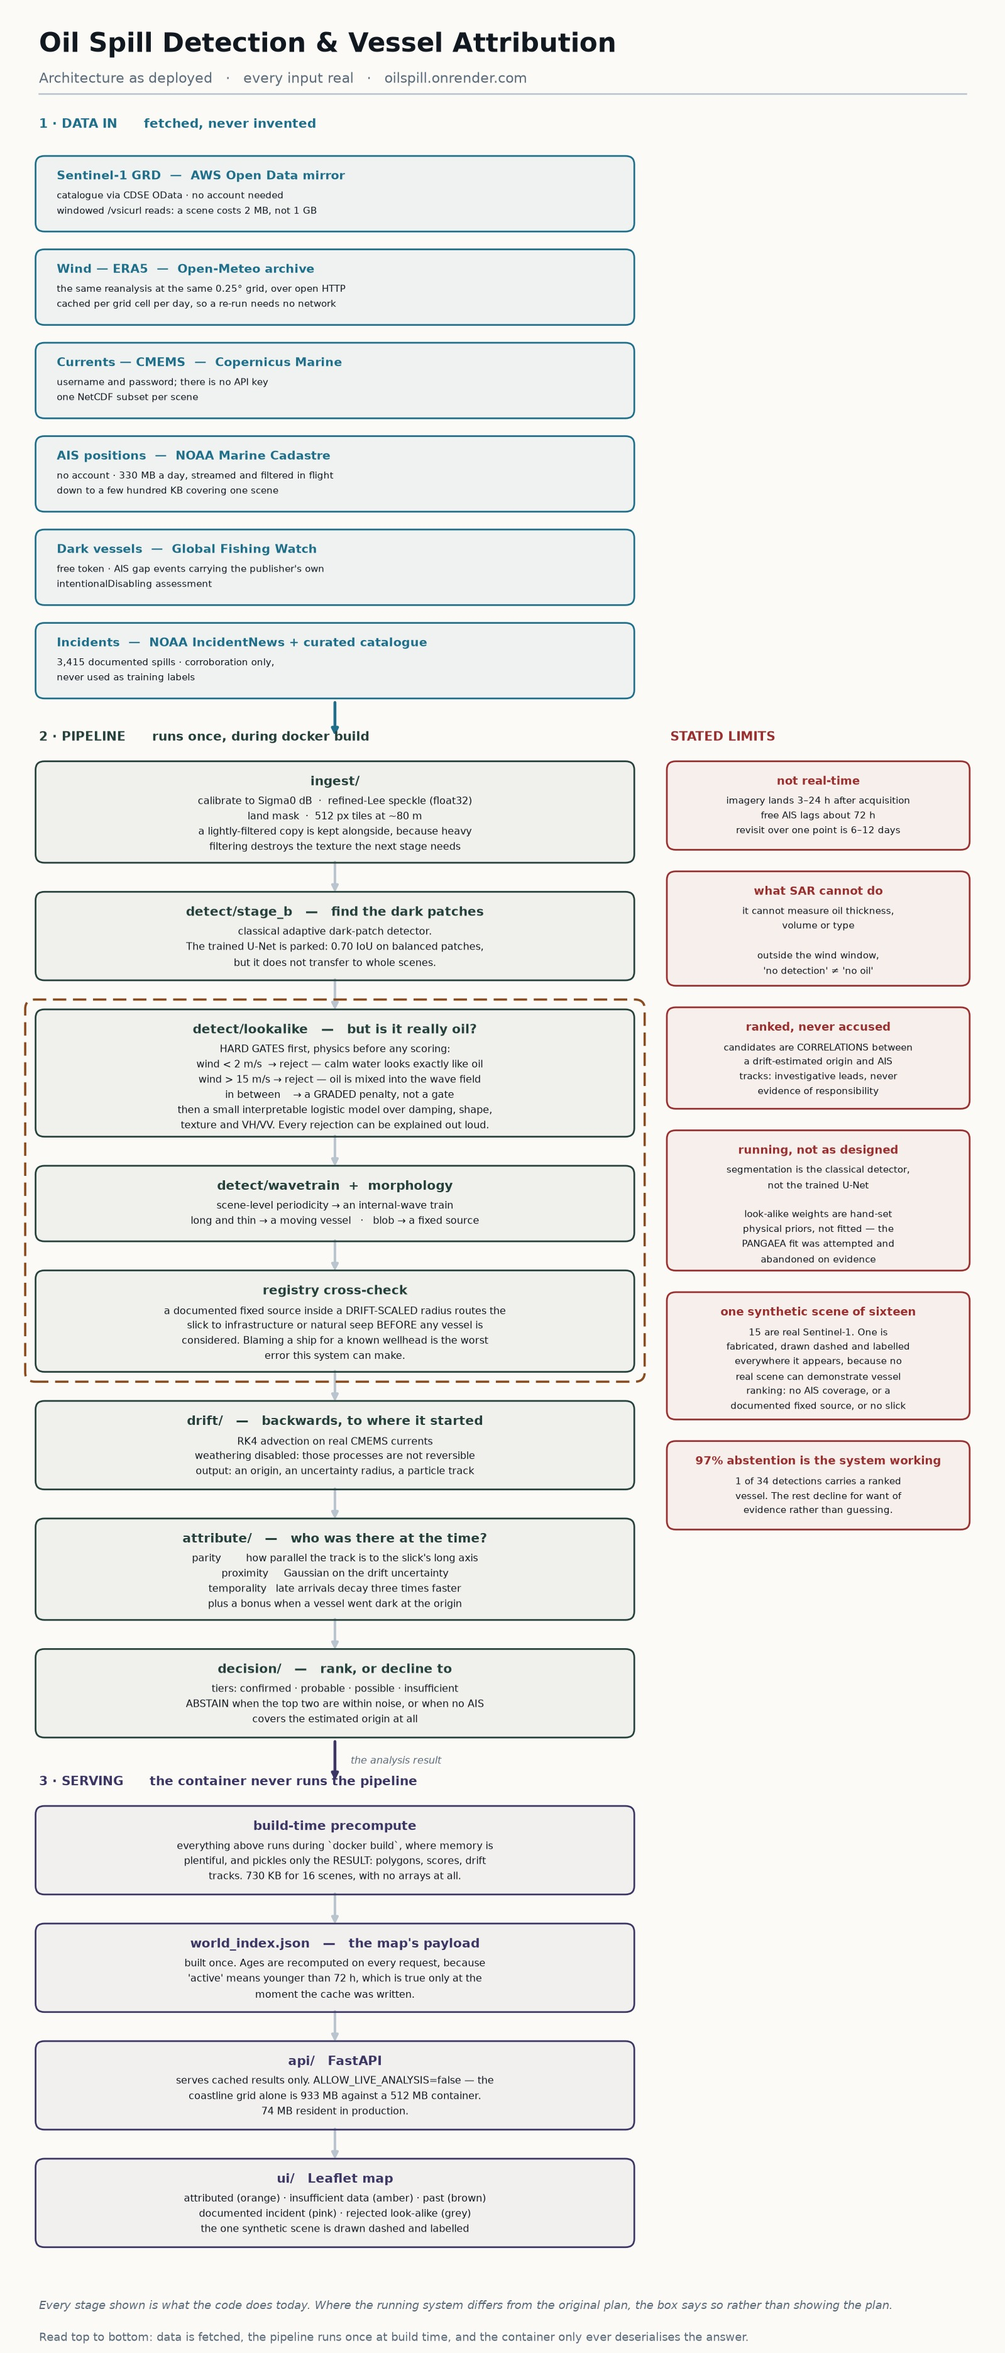
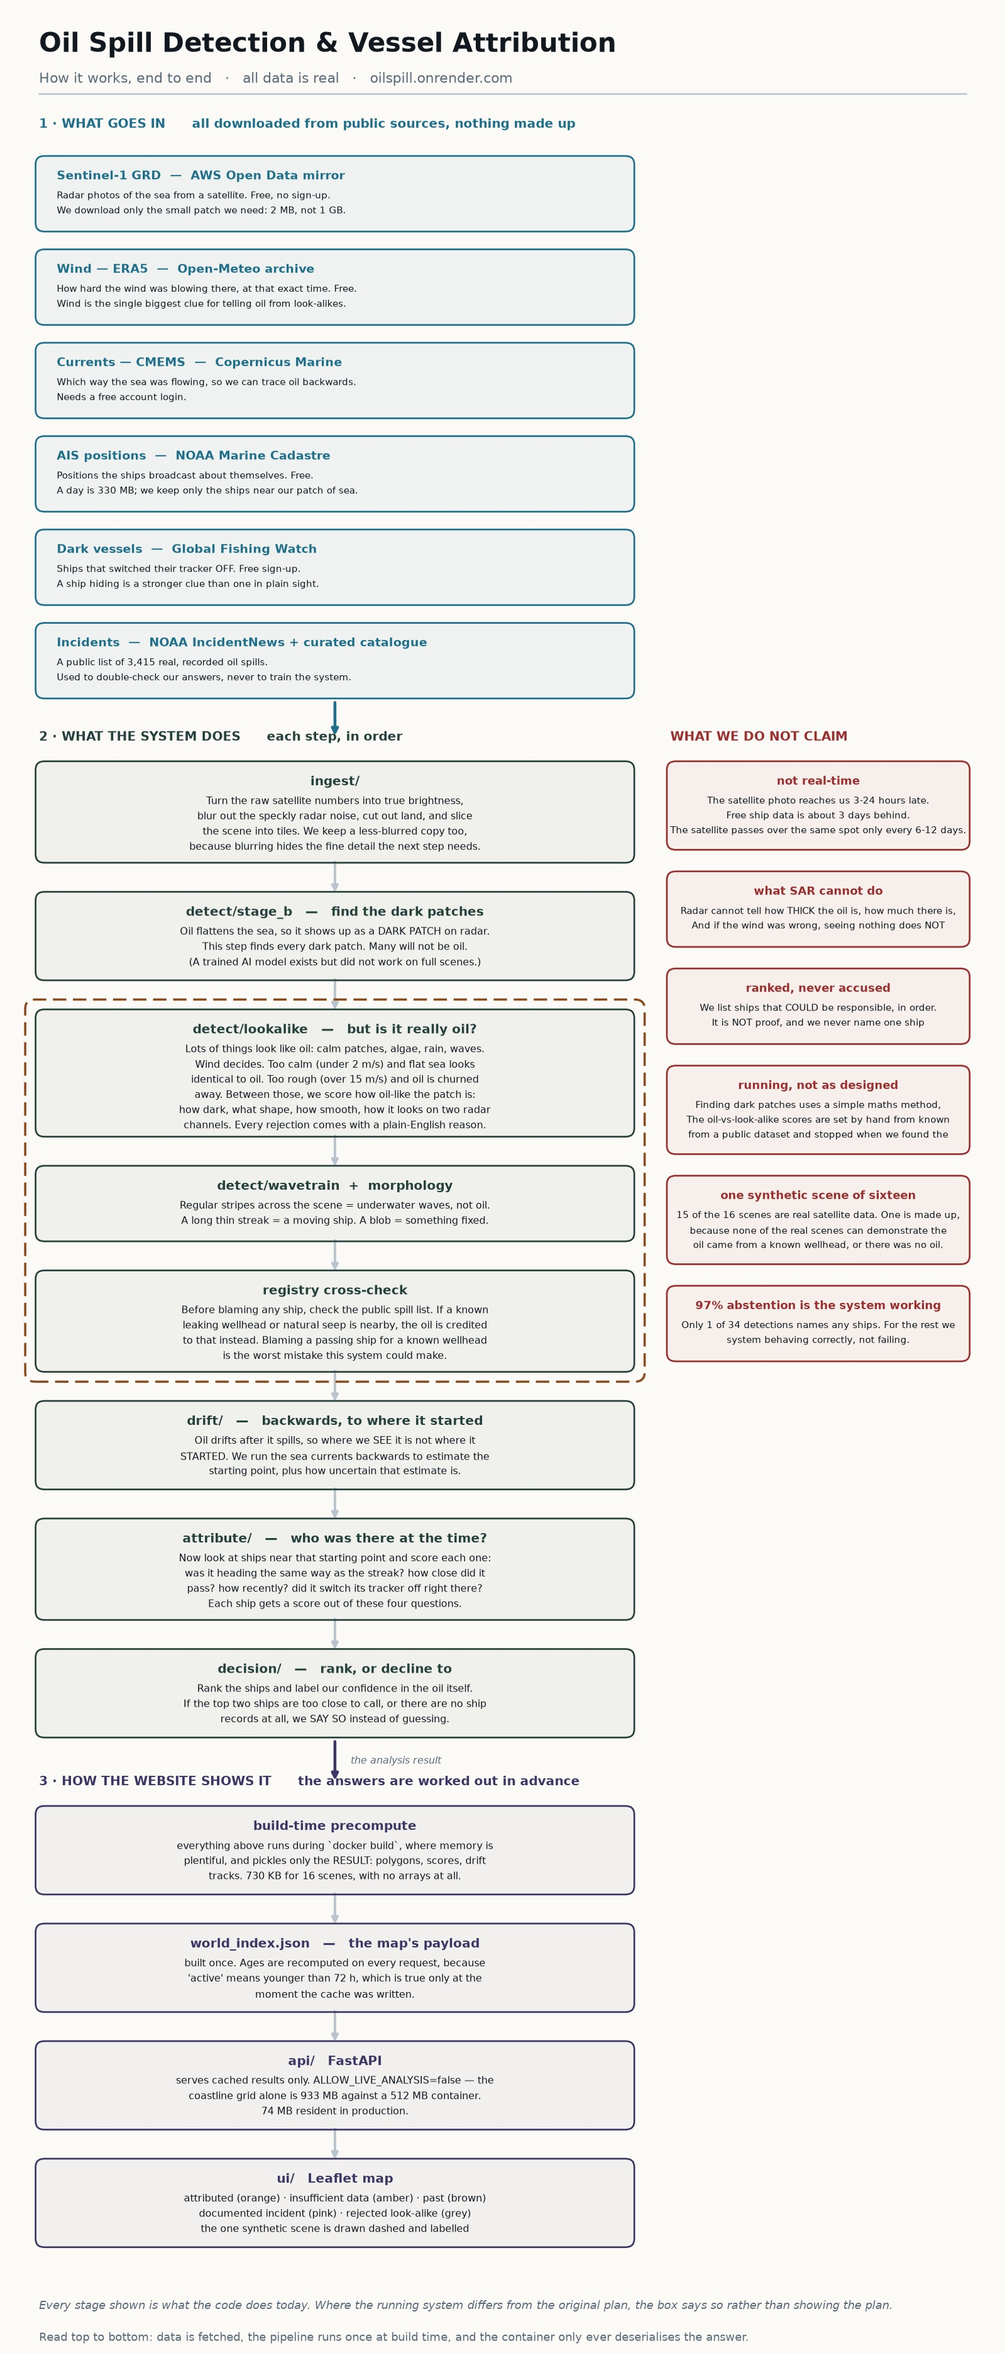
docs: rewrite the diagram and report in plain language
Both were written for someone who already knew the domain. Half the team does
not, and a document only the author can read is not documentation.

The flowchart now says what each step is FOR before saying how it works: oil
flattens the sea so it shows up as a dark patch; many other things also look
dark, so the wind decides; oil drifts, so we run the currents backwards to find
where it started. The limits column is retitled 'what we do not claim' and
spells out that a ranked ship is a lead for an investigator, not proof.

The PDF gains a section 0 that can be read on its own: what the problem is, how
the system works in four sentences, why 97% abstention is the system working
rather than failing, and a short glossary of the jargon that appears later.
Section headings are now questions a non-specialist would ask rather than
module names.

Nothing technical was removed. The detail is still there for whoever needs it;
it just no longer comes first.

diff --git a/scripts/make_diagram.py b/scripts/make_diagram.py
@@ -94,7 +94,7 @@ def draw(out_path: Path) -> None:
     # ---- header ----------------------------------------------------------
     ax.text(3, 169.6, "Oil Spill Detection & Vessel Attribution",
             fontsize=20, color=INK, fontweight="bold", va="top")
-    ax.text(3, 165.3, "Architecture as deployed   ·   every input real   ·   "
+    ax.text(3, 165.3, "How it works, end to end   ·   all data is real   ·   "
                       "oilspill.onrender.com", fontsize=10.4, color=MUTED, va="top")
     ax.plot([3, 97], [163.0, 163.0], color=LINE, linewidth=1.2)
 
@@ -103,71 +103,71 @@ def draw(out_path: Path) -> None:
     SIDE_X, SIDE_W = 67.0, 30.0
 
     # ---- 1. data in ------------------------------------------------------
-    band(160.4, "1 · DATA IN      fetched, never invented", SOURCE)
+    band(160.4, "1 · WHAT GOES IN      all downloaded from public sources, nothing made up", SOURCE)
     src = stack(COL_X, 156.0, COL_W, [
         ("Sentinel-1 GRD  —  AWS Open Data mirror",
-         "catalogue via CDSE OData · no account needed\n"
-         "windowed /vsicurl reads: a scene costs 2 MB, not 1 GB"),
+         "Radar photos of the sea from a satellite. Free, no sign-up.\n"
+         "We download only the small patch we need: 2 MB, not 1 GB."),
         ("Wind — ERA5  —  Open-Meteo archive",
-         "the same reanalysis at the same 0.25° grid, over open HTTP\n"
-         "cached per grid cell per day, so a re-run needs no network"),
+         "How hard the wind was blowing there, at that exact time. Free.\n"
+         "Wind is the single biggest clue for telling oil from look-alikes."),
         ("Currents — CMEMS  —  Copernicus Marine",
-         "username and password; there is no API key\n"
-         "one NetCDF subset per scene"),
+         "Which way the sea was flowing, so we can trace oil backwards.\n"
+         "Needs a free account login."),
         ("AIS positions  —  NOAA Marine Cadastre",
-         "no account · 330 MB a day, streamed and filtered in flight\n"
-         "down to a few hundred KB covering one scene"),
+         "Positions the ships broadcast about themselves. Free.\n"
+         "A day is 330 MB; we keep only the ships near our patch of sea."),
         ("Dark vessels  —  Global Fishing Watch",
-         "free token · AIS gap events carrying the publisher's own\n"
-         "intentionalDisabling assessment"),
+         "Ships that switched their tracker OFF. Free sign-up.\n"
+         "A ship hiding is a stronger clue than one in plain sight."),
         ("Incidents  —  NOAA IncidentNews + curated catalogue",
-         "3,415 documented spills · corroboration only,\n"
-         "never used as training labels"),
+         "A public list of 3,415 real, recorded oil spills.\n"
+         "Used to double-check our answers, never to train the system."),
     ], SOURCE, fs=7.4, tfs=8.9, gap=2.6, align="left")
 
     down(SPINE, src[-1][1] - 0.5, src[-1][1] - 4.6, SOURCE)
 
     # ---- 2. pipeline -----------------------------------------------------
     top_pipe = src[-1][1] - 7.4
-    band(top_pipe + 3.6, "2 · PIPELINE      runs once, during docker build", STAGE)
+    band(top_pipe + 3.6, "2 · WHAT THE SYSTEM DOES      each step, in order", STAGE)
     pipe = stack(COL_X, top_pipe, COL_W, [
         ("ingest/",
-         "calibrate to Sigma0 dB  ·  refined-Lee speckle (float32)\n"
-         "land mask  ·  512 px tiles at ~80 m\n"
-         "a lightly-filtered copy is kept alongside, because heavy\n"
-         "filtering destroys the texture the next stage needs"),
+         "Turn the raw satellite numbers into true brightness,\n"
+         "blur out the speckly radar noise, cut out land, and slice\n"
+         "the scene into tiles. We keep a less-blurred copy too,\n"
+         "because blurring hides the fine detail the next step needs."),
         ("detect/stage_b   —   find the dark patches",
-         "classical adaptive dark-patch detector.\n"
-         "The trained U-Net is parked: 0.70 IoU on balanced patches,\n"
-         "but it does not transfer to whole scenes."),
+         "Oil flattens the sea, so it shows up as a DARK PATCH on radar.\n"
+         "This step finds every dark patch. Many will not be oil.\n"
+         "(A trained AI model exists but did not work on full scenes.)"),
         ("detect/lookalike   —   but is it really oil?",
-         "HARD GATES first, physics before any scoring:\n"
-         "   wind < 2 m/s  → reject — calm water looks exactly like oil\n"
-         "   wind > 15 m/s → reject — oil is mixed into the wave field\n"
-         "   in between    → a GRADED penalty, not a gate\n"
-         "then a small interpretable logistic model over damping, shape,\n"
-         "texture and VH/VV. Every rejection can be explained out loud."),
+         "Lots of things look like oil: calm patches, algae, rain, waves.\n"
+         "Wind decides. Too calm (under 2 m/s) and flat sea looks\n"
+         "identical to oil. Too rough (over 15 m/s) and oil is churned\n"
+         "away. Between those, we score how oil-like the patch is:\n"
+         "how dark, what shape, how smooth, how it looks on two radar\n"
+         "channels. Every rejection comes with a plain-English reason."),
         ("detect/wavetrain  +  morphology",
-         "scene-level periodicity → an internal-wave train\n"
-         "long and thin → a moving vessel   ·   blob → a fixed source"),
+         "Regular stripes across the scene = underwater waves, not oil.\n"
+         "A long thin streak = a moving ship. A blob = something fixed."),
         ("registry cross-check",
-         "a documented fixed source inside a DRIFT-SCALED radius routes the\n"
-         "slick to infrastructure or natural seep BEFORE any vessel is\n"
-         "considered. Blaming a ship for a known wellhead is the worst\n"
-         "error this system can make."),
+         "Before blaming any ship, check the public spill list. If a known\n"
+         "leaking wellhead or natural seep is nearby, the oil is credited\n"
+         "to that instead. Blaming a passing ship for a known wellhead\n"
+         "is the worst mistake this system could make."),
         ("drift/   —   backwards, to where it started",
-         "RK4 advection on real CMEMS currents\n"
-         "weathering disabled: those processes are not reversible\n"
-         "output: an origin, an uncertainty radius, a particle track"),
+         "Oil drifts after it spills, so where we SEE it is not where it\n"
+         "STARTED. We run the sea currents backwards to estimate the\n"
+         "starting point, plus how uncertain that estimate is."),
         ("attribute/   —   who was there at the time?",
-         "parity        how parallel the track is to the slick's long axis\n"
-         "proximity     Gaussian on the drift uncertainty\n"
-         "temporality   late arrivals decay three times faster\n"
-         "plus a bonus when a vessel went dark at the origin"),
+         "Now look at ships near that starting point and score each one:\n"
+         "was it heading the same way as the streak? how close did it\n"
+         "pass? how recently? did it switch its tracker off right there?\n"
+         "Each ship gets a score out of these four questions."),
         ("decision/   —   rank, or decline to",
-         "tiers: confirmed · probable · possible · insufficient\n"
-         "ABSTAIN when the top two are within noise, or when no AIS\n"
-         "covers the estimated origin at all"),
+         "Rank the ships and label our confidence in the oil itself.\n"
+         "If the top two ships are too close to call, or there are no ship\n"
+         "records at all, we SAY SO instead of guessing."),
     ], STAGE, fs=7.5, tfs=9.4, arrows=True)
 
     # The three physics stages are the contribution; mark them as one block.
@@ -181,7 +181,7 @@ def draw(out_path: Path) -> None:
 
     # ---- 3. serving ------------------------------------------------------
     top_serve = pipe[-1][1] - 8.0
-    band(top_serve + 3.6, "3 · SERVING      the container never runs the pipeline",
+    band(top_serve + 3.6, "3 · HOW THE WEBSITE SHOWS IT      the answers are worked out in advance",
          SERVE)
     serve = stack(COL_X, top_serve, COL_W, [
         ("build-time precompute",
@@ -203,29 +203,29 @@ def draw(out_path: Path) -> None:
     ], SERVE, fs=7.5, tfs=9.4, arrows=True)
 
     # ---- limits, running alongside the pipeline --------------------------
-    band(top_pipe + 3.6, "STATED LIMITS", WARN, x=SIDE_X)
+    band(top_pipe + 3.6, "WHAT WE DO NOT CLAIM", WARN, x=SIDE_X)
     stack(SIDE_X, top_pipe, SIDE_W, [
         ("not real-time",
-         "imagery lands 3–24 h after acquisition\n"
-         "free AIS lags about 72 h\n"
-         "revisit over one point is 6–12 days"),
+         "The satellite photo reaches us 3-24 hours late.\n"
+         "Free ship data is about 3 days behind.\n"
+         "The satellite passes over the same spot only every 6-12 days."),
         ("what SAR cannot do",
-         "it cannot measure oil thickness,\nvolume or type\n\n"
-         "outside the wind window,\n'no detection' ≠ 'no oil'"),
+         "Radar cannot tell how THICK the oil is, how much there is,\n"
+         "And if the wind was wrong, seeing nothing does NOT"),
         ("ranked, never accused",
-         "candidates are CORRELATIONS between\na drift-estimated origin and AIS\n"
-         "tracks: investigative leads, never\nevidence of responsibility"),
+         "We list ships that COULD be responsible, in order.\n"
+         "It is NOT proof, and we never name one ship"),
         ("running, not as designed",
-         "segmentation is the classical detector,\nnot the trained U-Net\n\n"
-         "look-alike weights are hand-set\nphysical priors, not fitted — the\n"
-         "PANGAEA fit was attempted and\nabandoned on evidence"),
+         "Finding dark patches uses a simple maths method,\n"
+         "The oil-vs-look-alike scores are set by hand from known\n"
+         "from a public dataset and stopped when we found the"),
         ("one synthetic scene of sixteen",
-         "15 are real Sentinel-1. One is\nfabricated, drawn dashed and labelled\n"
-         "everywhere it appears, because no\nreal scene can demonstrate vessel\n"
-         "ranking: no AIS coverage, or a\ndocumented fixed source, or no slick"),
+         "15 of the 16 scenes are real satellite data. One is made up,\n"
+         "because none of the real scenes can demonstrate the\n"
+         "oil came from a known wellhead, or there was no oil."),
         ("97% abstention is the system working",
-         "1 of 34 detections carries a ranked\nvessel. The rest decline for want of\n"
-         "evidence rather than guessing."),
+         "Only 1 of 34 detections names any ships. For the rest we\n"
+         "system behaving correctly, not failing."),
     ], WARN, fs=7.3, tfs=8.8, gap=3.0)
 
     ax.text(3, serve[-1][1] - 6.0,

diff --git a/scripts/make_report.py b/scripts/make_report.py
@@ -84,7 +84,30 @@ def build(out_path: Path) -> None:
     P("Decision record &mdash; what was chosen, what was rejected, and what changed. "
       "Generated 26 August 2026.", "sub")
 
-    P("1. What the system does", "h1")
+    P("0. In plain words &mdash; read this first", "h1")
+    P("Ships sometimes dump oily waste at sea and sail away. Nobody is watching "
+      "most of the ocean, so it usually goes unnoticed. This system watches it "
+      "from a satellite.", "p")
+    P("<b>How it works, in four sentences.</b> A radar satellite photographs the "
+      "sea. Oil flattens the water, so it shows up as a dark patch. Many other "
+      "things also look dark &mdash; calm water, algae, rain &mdash; so we use the "
+      "wind, the shape and the texture to work out which patches are really oil. "
+      "Then, because oil drifts, we run the sea currents backwards to guess where "
+      "it started, and list which ships were near that spot at that time.", "p")
+    P("<b>The most important thing to understand.</b> We produce a <i>ranked list "
+      "of ships that could be responsible</i>. That is a lead for an investigator "
+      "to follow, not proof. A ship being near a spill is a coincidence until "
+      "somebody checks. If the evidence is weak, the system says \"not enough "
+      "evidence\" instead of guessing &mdash; and today it says that 97% of the "
+      "time, which is it working properly, not failing.", "p")
+    P("<b>Jargon you will hear.</b> "
+      "<i>SAR</i> is the radar camera on the satellite. "
+      "<i>Look-alike</i> is something dark that is not oil. "
+      "<i>AIS</i> is the radio signal ships broadcast saying where they are. "
+      "<i>Drift</i> is oil moving with the current after it spills. "
+      "<i>Abstain</i> means we decline to name anyone.", "p")
+
+    P("1. What the system does, in more detail", "h1")
     P("A Sentinel-1 radar scene of the ocean goes in. Dark patches come out, each "
       "tested against physics to decide whether it is oil or a natural look-alike. "
       "Surviving slicks are drifted backwards through real ocean currents to estimate "
@@ -93,7 +116,7 @@ def build(out_path: Path) -> None:
     P("Deployed at oilspill.onrender.com: 16 scenes, 34 presented detections, "
       "74 MB resident against a 512 MB limit.")
 
-    P("2. Data sources: what was chosen and what was not", "h1")
+    P("2. Where the data comes from, and what we turned down", "h1")
     P("The binding constraint was access, not quality. Every source had to be "
       "obtainable without an institutional affiliation, and two datasets the original "
       "plan depended on turned out not to be.")
@@ -128,8 +151,8 @@ def build(out_path: Path) -> None:
          "Used for corroboration only, never as training labels."],
     ], [W * 0.13, W * 0.40, W * 0.47], s))
 
-    P("3. Model choices", "h1")
-    P("3.1 Segmentation", "h2")
+    P("3. Which methods we used to find the oil", "h1")
+    P("3.1 Finding the dark patches", "h2")
     P("The plan called for a U-Net with a ResNet-34 encoder, chosen because SkyTruth "
       "Cerulean uses it for this exact task &mdash; a complete answer to \"why this "
       "architecture\". It was trained, reached <b>0.70 oil IoU on balanced "
@@ -140,7 +163,7 @@ def build(out_path: Path) -> None:
       "<i>classical-dark-patch</i> on its own status panel rather than implying a "
       "deep model is active. A detector that works beats a better one that does not.")
 
-    P("3.2 Look-alike rejection", "h2")
+    P("3.2 Deciding which dark patches are really oil", "h2")
     P("Deliberately <b>not</b> a neural network. A small logistic model over "
       "interpretable physical features means every rejection can be explained out "
       "loud: <i>\"rejected: wind 1.2 m/s, below the 2 m/s floor\"</i>. An explainable "
@@ -149,8 +172,8 @@ def build(out_path: Path) -> None:
       "fourth input channel would probably help slightly, and would make the "
       "wind-ablation claim unmeasurable.")
 
-    P("4. Physics decisions", "h1")
-    P("4.1 The wind window is hard at the bottom, graded at the top", "h2")
+    P("4. The science rules we built in", "h1")
+    P("4.1 Wind: a strict rule at one end, a flexible one at the other", "h2")
     P("The two ends of the detection window fail differently, and treating them "
       "identically was a bug. <b>Below</b> the floor, calm water is genuinely "
       "indistinguishable from oil &mdash; every dark patch is unexplainable, so a "
@@ -162,7 +185,7 @@ def build(out_path: Path) -> None:
       "what the brief asked for &mdash; \"soft edges &hellip; a graded feature, not a "
       "hard cutoff\" &mdash; and the original code did not implement it.")
 
-    P("4.2 Corroboration radius scales with drift time", "h2")
+    P("4.2 The longer ago it spilled, the further away we look", "h2")
     P("A flat 60 km asked a slick found a fortnight after an incident to have stayed "
       "where it started, which is the one thing oil never does. Real MSC ELSA 3 "
       "detections 15 days later sat 87 km out and scored as uncorroborated. The "
@@ -170,7 +193,7 @@ def build(out_path: Path) -> None:
       "the 0.3 m/s the project's own validation script quotes, so it errs toward "
       "matching too little rather than too much.")
 
-    P("4.3 Fixed sources are excluded before vessel attribution", "h2")
+    P("4.3 Never blame a ship for a leak that is already known about", "h2")
     P("The most serious bug found in this build. On the Taylor Energy MC-20 scene the "
       "system ranked three named vessels &mdash; FAST RUNNER, SM NEW ORLEANS, GULF "
       "DAWN &mdash; against oil from a wellhead that has leaked continuously since "
@@ -184,7 +207,7 @@ def build(out_path: Path) -> None:
       "match now overrides the geometric test: an independent identification outranks "
       "a radius.")
 
-    P("5. Serving architecture", "h1")
+    P("5. How the website runs on a free server", "h1")
     P("The free tier gives 512 MB. The pipeline needs far more, but the <i>result</i> "
       "is tiny &mdash; 730 KB of polygons and scores for 16 scenes, with no arrays at "
       "all. So the analysis runs once during <tt>docker build</tt>, where memory is "
@@ -197,7 +220,7 @@ def build(out_path: Path) -> None:
     P("The container also refuses live analysis outright. Without that, one "
       "\"re-analyse\" click loads the 933 MB coastline grid and kills the service.")
 
-    P("6. What changed during the build, and why", "h1")
+    P("6. What we changed our minds about, and why", "h1")
     F.append(table([
         ["Change", "Why"],
         ["Wind moved from a hardcoded constant to real ERA5",
@@ -236,7 +259,7 @@ def build(out_path: Path) -> None:
     ], [W * 0.30, W * 0.70], s))
 
     F.append(PageBreak())
-    P("7. The look-alike fit: a negative result", "h1")
+    P("7. A thing we tried that did not work, and why we are saying so", "h1")
     P("The brief names look-alike false-positive rate as the primary decider, and the "
       "model ships hand-set weights. Fitting them on Yang et al. (PANGAEA "
       "10.1594/PANGAEA.980773) would have turned a process claim into an accuracy "
@@ -264,7 +287,7 @@ def build(out_path: Path) -> None:
       "premise the whole differentiator rests on, and it depends on no part of our "
       "own detector. Full write-up: <tt>docs/lookalike-fit-attempt.md</tt>.")
 
-    P("8. What is claimed, and what is not", "h1")
+    P("8. What we claim, and what we refuse to claim", "h1")
     F.append(table([
         ["Defensible", "Explicitly not claimed"],
         ["Near-real-time detection, 3&ndash;24 h after acquisition",
@@ -280,7 +303,7 @@ def build(out_path: Path) -> None:
          "running is not the trained network."],
     ], [W * 0.48, W * 0.52], s))
 
-    P("9. Known limitations", "h1")
+    P("9. Things this system cannot do", "h1")
     P("&bull; Segmentation is the classical detector; the trained U-Net does not "
       "transfer to whole scenes.<br/>"
       "&bull; Look-alike weights are hand-set physical priors, not fitted.<br/>"
